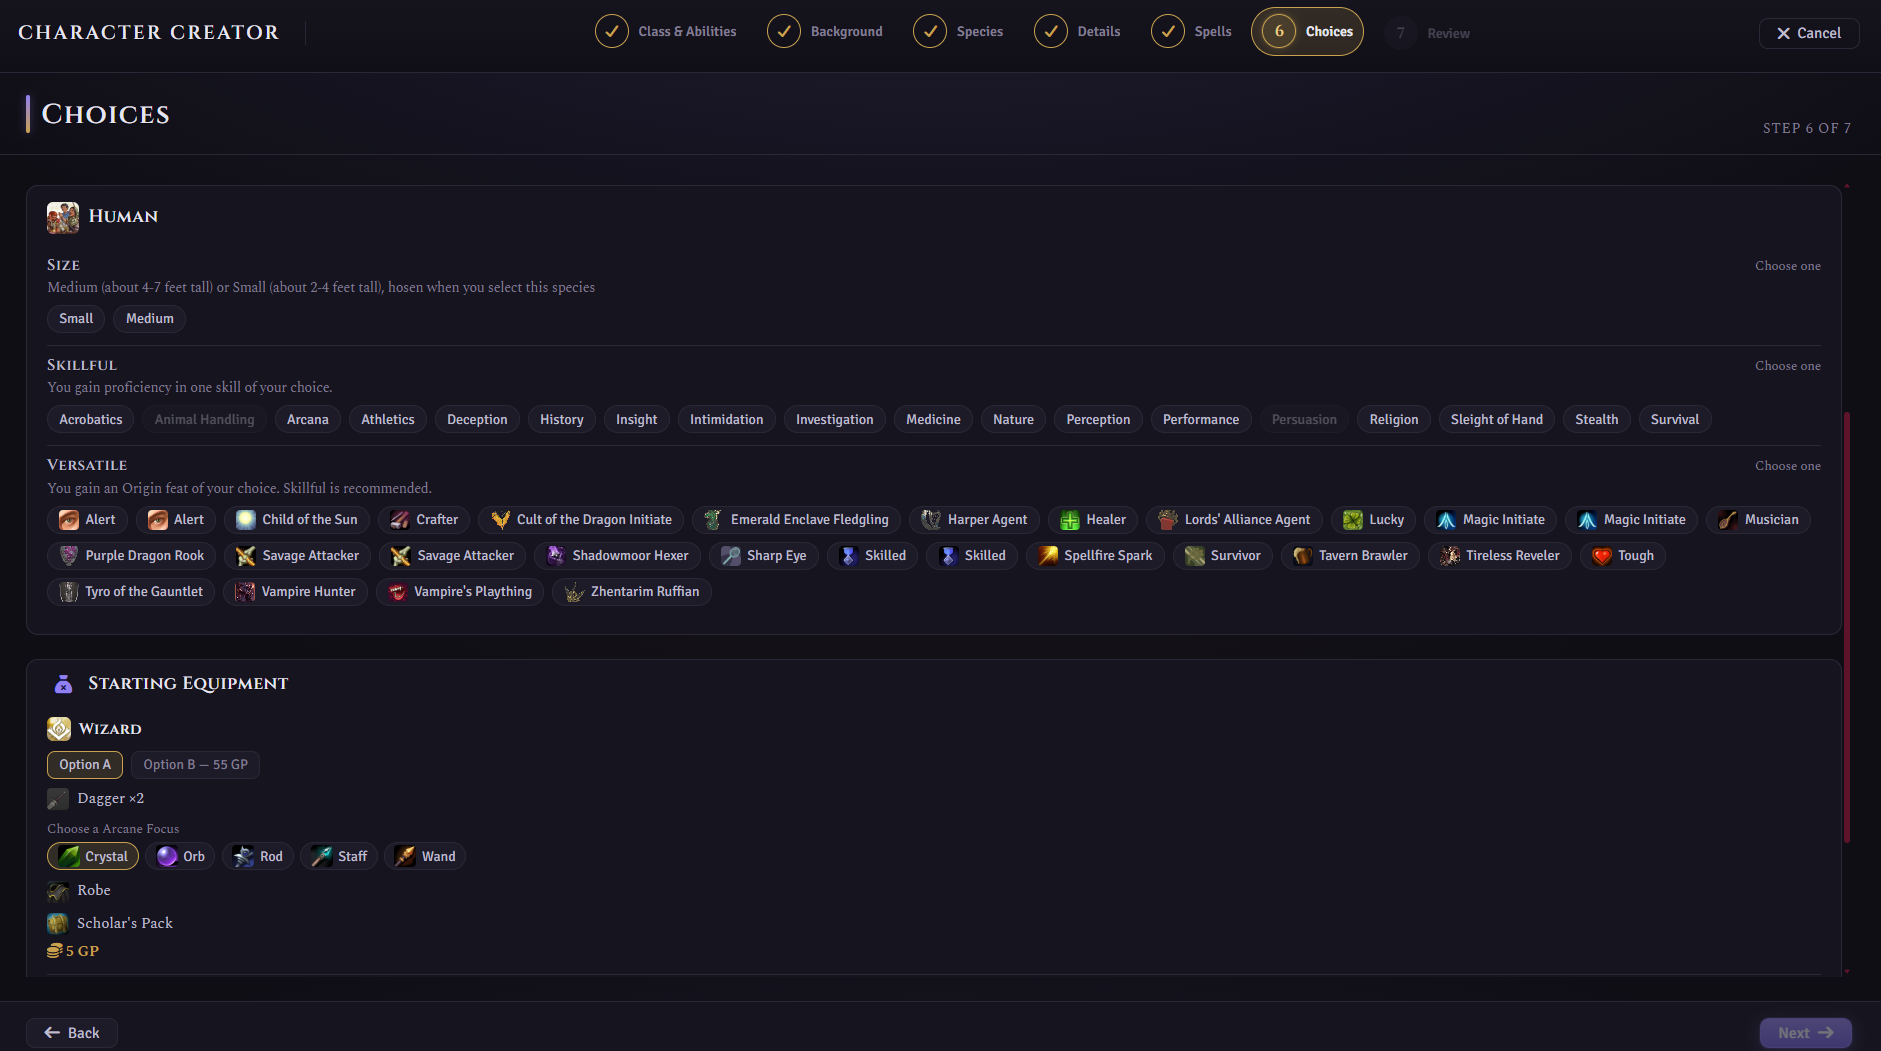
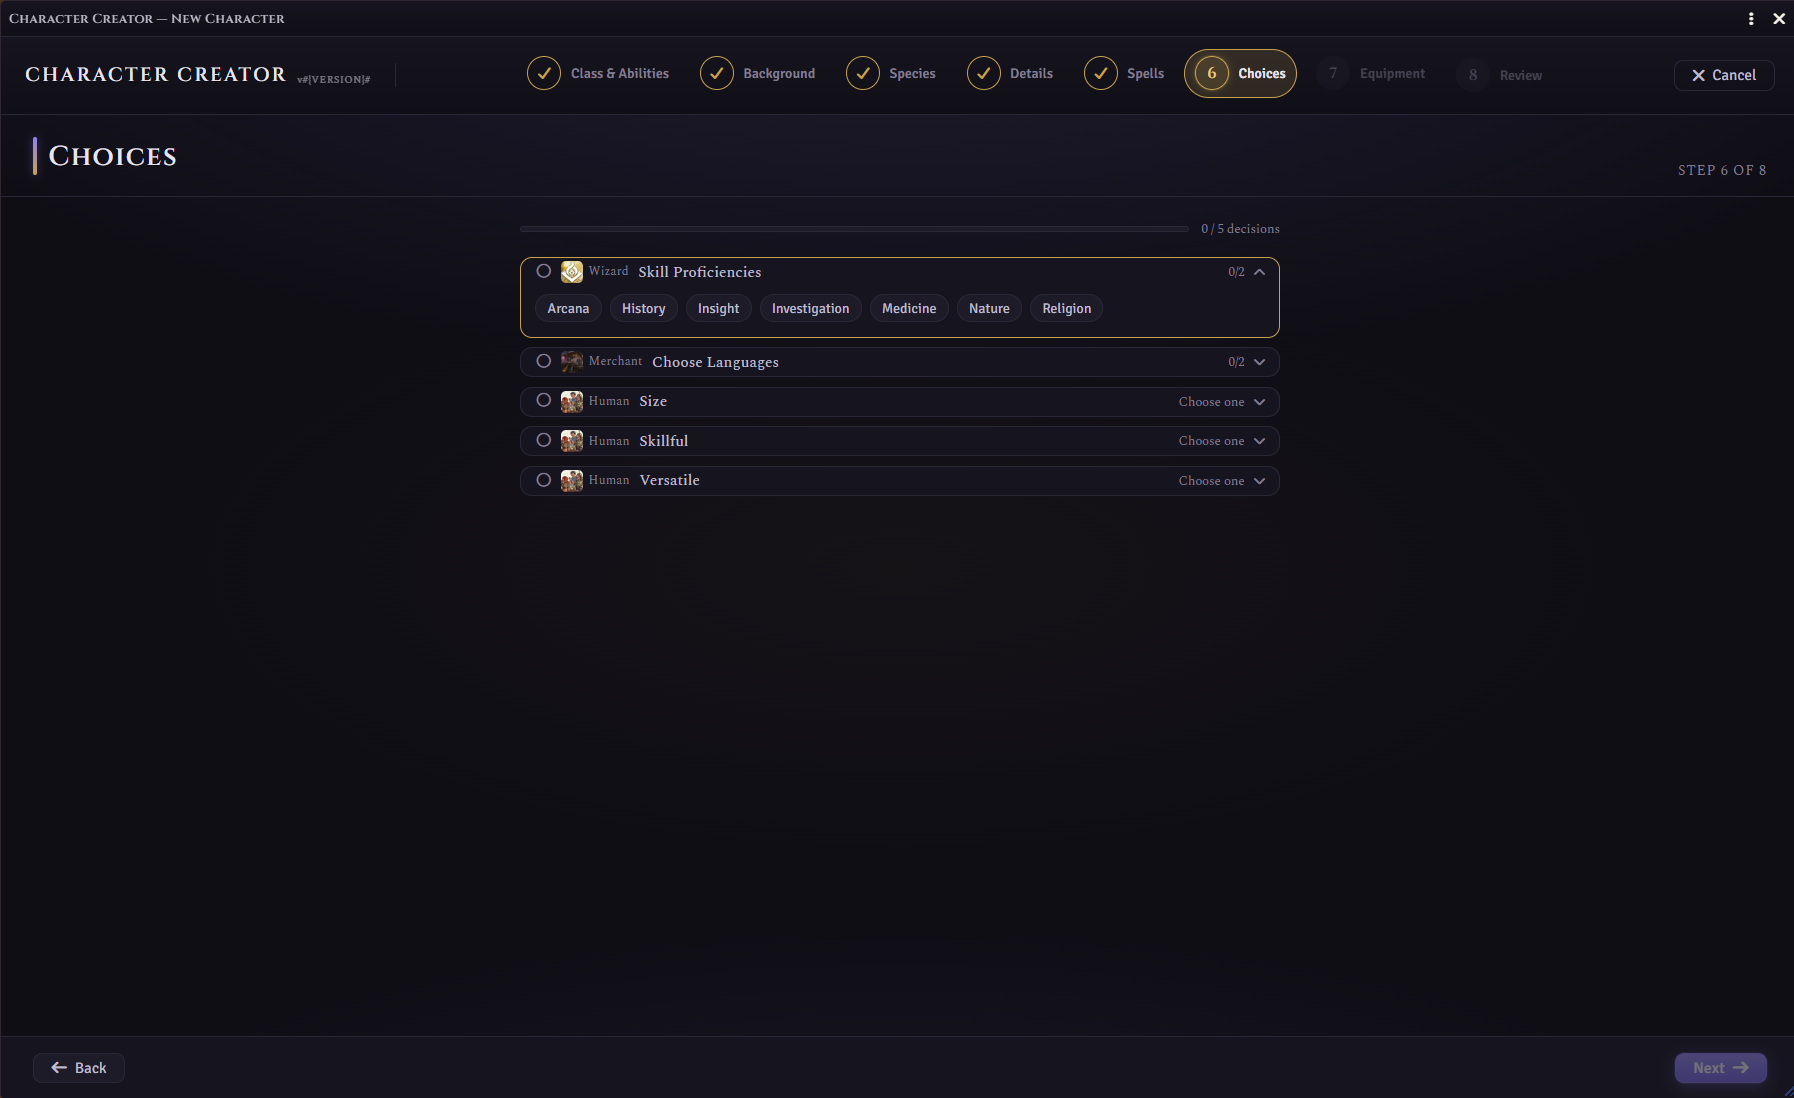
Updating readme

diff --git a/README.md b/README.md
@@ -47,7 +47,7 @@ Choose your character's people — their traits, features, and any special abili
 **4. Details**
 Give your character a name, a portrait, and a token. Want to go further? Add their personality, appearance, alignment, and backstory — or leave it for later. It's entirely optional.
 
-![Adding character details](docs/screenshots/details.png)
+![Adding character details](docs\screenshots\details.png)
 
 **5. Spells**
 If your class can cast spells, this is where you pick your cantrips and starting spells. Each spell shows its full description so you know exactly what you're taking. Non-casters skip this step automatically.
@@ -61,6 +61,7 @@ Some classes, backgrounds, and species let you make extra decisions — a bonus 
 
 **7. Equipment**
 Kit out your hero with the starting gear your class and background provide. Pick a ready-made bundle of weapons, armour, and tools — swapping individual items where the rules let you — or take a pouch of gold to shop with later. There's always a sensible default, so you can fine-tune your loadout or breeze straight past it.
+![Starting Equipment](docs/screenshots/equipment.png)
 
 **8. Review**
 A final summary of everything you've built. Happy with it? Click **Create Character** and your new hero is ready to play.